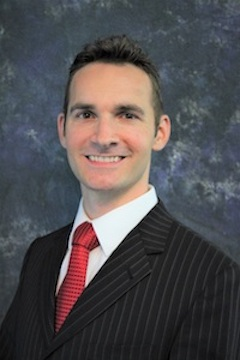
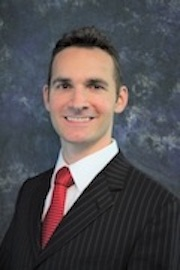
start restyling mobile. smaller picture. remove fontawesome cdn

diff --git a/index.html b/index.html
@@ -8,7 +8,6 @@
     <title>Warren Insurance Agency</title>
     <link rel="stylesheet" href="style.css">
     <link rel="icon" type="image/x-icon" href="favicon.ico">
-    <script src="https://kit.fontawesome.com/ba774010ff.js" crossorigin="anonymous"></script>
     <!-- Google tag (gtag.js) -->
     <script async src="https://www.googletagmanager.com/gtag/js?id=AW-11144223974"></script>
     <script>
@@ -35,17 +34,17 @@
             <div class="headshot">
                 <img id="headshot" alt="Headshot of Owner/Founder Mr. Daniel Warren" src="headshot.jpg">
                 <caption>Daniel Warren, Owner</caption>
-                <p><i class="fa-solid fa-star fa-2xs" style="color: #dbd404;"></i><i class="fa-solid fa-star fa-2xs" style="color: #dbd404;"></i><i class="fa-solid fa-star fa-2xs" style="color: #dbd404;"></i><i class="fa-solid fa-star fa-2xs" style="color: #dbd404;"></i><i class="fa-solid fa-star fa-2xs" style="color: #dbd404;"></i><a href="https://www.google.com/search?q=daniel+warren+insurance&rlz=1C5CHFA_enUS944US956&oq=da&aqs=chrome.0.69i59j69i57j0i67i650j69i60j69i61j69i60l3.5698j0j7&sourceid=chrome&ie=UTF-8#" target="_blank">100% 5-Star Reviews!</a></p>
+                <p><a href="https://www.google.com/search?q=daniel+warren+insurance&rlz=1C5CHFA_enUS944US956&oq=da&aqs=chrome.0.69i59j69i57j0i67i650j69i60j69i61j69i60l3.5698j0j7&sourceid=chrome&ie=UTF-8#" target="_blank">100% 5-Star Reviews!</a></p>
             </div>
             <div class="paras">
                 <h1 id="width">Affordable business insurance plans customized for you by trusted experts.</h1>
                 <p class="lh">Is your business covered correctly? Are you stuck with an expensive insurance policy? Protect your small business today with a customized California business insurance policy. Get a competitive free quote, with no hassle!</p>
-                <p class="lh">Warren Insurance Agency is a family owned and operated team of experts with decades of knowledge and experience. Now offering free consultations to all small businesses in California. Call today to find out how much you can save!</p>
+                <h2>Switch and you could save thousands!</h2>
+            <p class="lh">Fill out the form below, or call today for your free quote! We are dedicated to finding a plan that only includes the policies you need. We'll get you covered and save you money!</p>
             </div>
         </section>
         <section id="formsection">
-          <h2>Switch and you could save thousands!</h2>
-          <p class="lh">Fill out the form below, or call today for your free quote! We are dedicated to finding a plan that only includes the policies you need. We'll get you covered and save you money!</p>
+          
           <form class="contact-form" name="contact-form" method="POST" netlify>
               <label class="italic" for="name">Name: <br><br><input type="text" name="name" id="name" maxlength="40" required></label>
               <label class="italic" for="email">Email: <br><br><input type="email" name="email" id="email" maxlength="60"></label>
@@ -56,6 +55,9 @@
           </form>
           <p class="privacy-para">We will never share your info. Check out our <a href="privacy.html" target="_blank">privacy policy</a> for more.</p>
         </section>
+
+        <p class="lh">Warren Insurance Agency is a family owned and operated team of experts with decades of knowledge and experience. Now offering free consultations to all small businesses in California. Call today to find out how much you can save!</p>
+
         <section id="pics">
           <img alt="A stylish office" src="office.jpg">
           <img alt="An injured hand receiving help from healthcare worker." src="workers-comp.jpg">

diff --git a/style.css b/style.css
@@ -248,6 +248,15 @@ a[href^="tel"] {
 
     #pic {
         margin-top: 18px;
+        display: flex;
+    }
+
+    .headshot {
+        max-width: 180px;
+    }
+
+    caption {
+        text-align: center;
     }
 
     .paras, #para2, form, #formsection h1, #formsection p {
